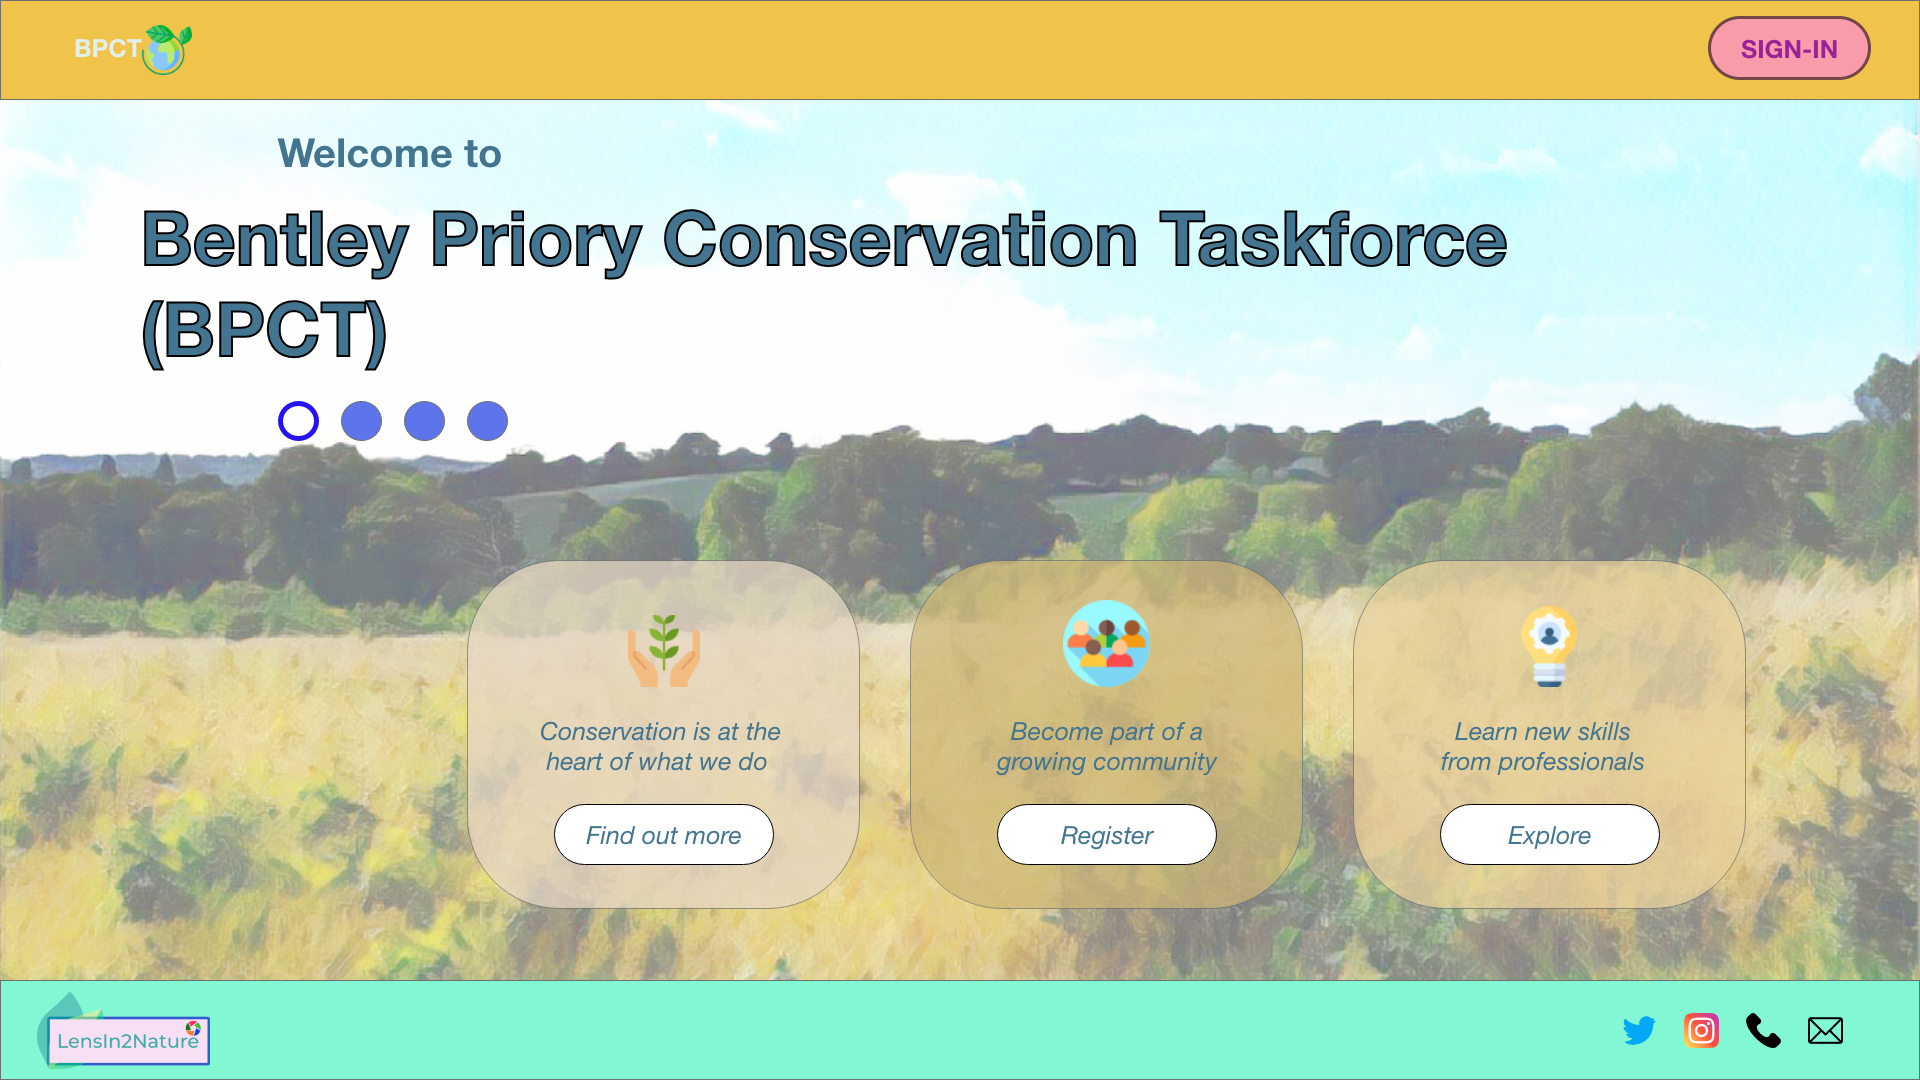
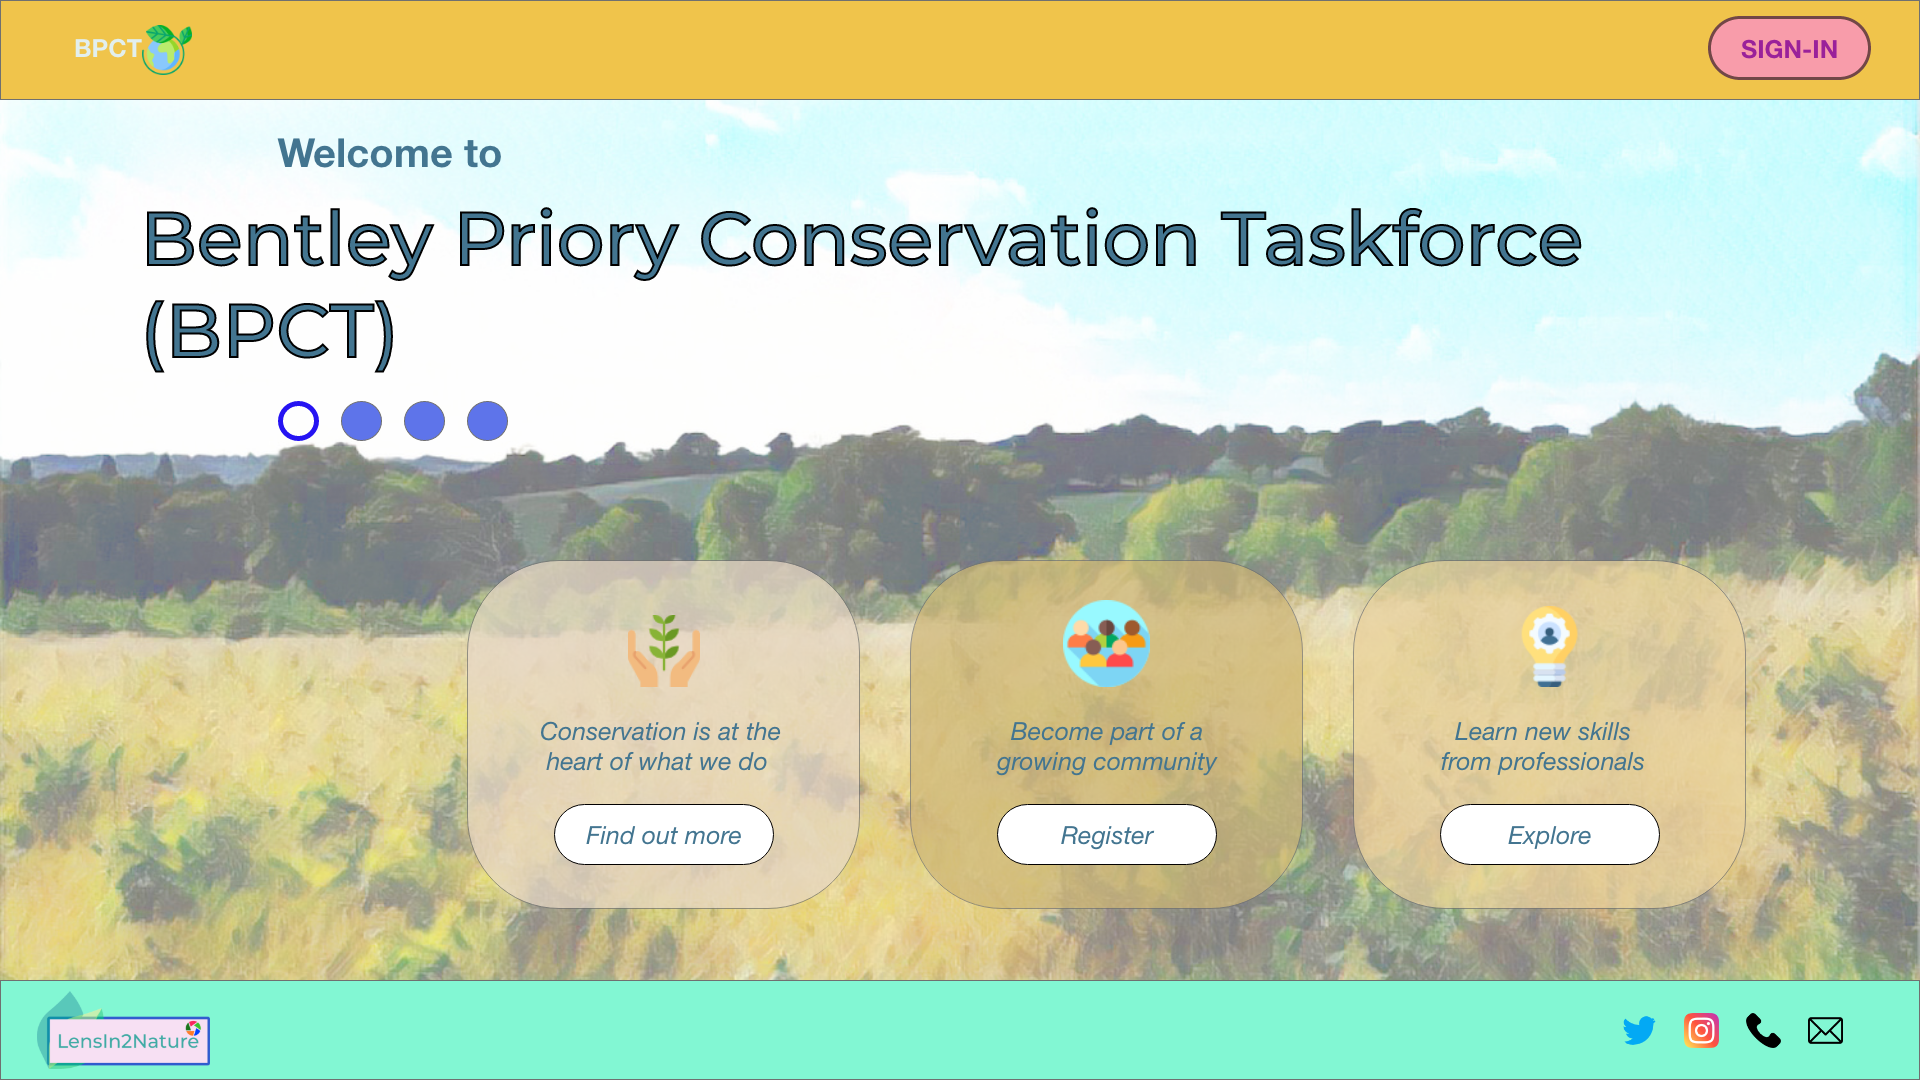
changes to font used in mock ups

Changed region(s): [[0.0625, 0.1833, 0.8438, 0.3361]]

diff --git a/mockups-page.html b/mockups-page.html
@@ -35,7 +35,7 @@
         <img src="images/image 7a.png" alt="mockup of homepage" />
         <figcaption>
           <a href="images/image 7a.png" target="_blank"
-            >Fig 6a. Mockup of Homepage (desktop)</a
+            >Fig 7a. Mockup of Homepage (desktop)</a
           >
         </figcaption>
       </figure>
@@ -46,7 +46,7 @@
         />
         <figcaption>
           <a href="images/image 7b.png" target="_blank"
-            >Fig 6b. Mockup of second part of homepage (desktop)</a
+            >Fig 7b. Mockup of second part of homepage (desktop)</a
           >
         </figcaption>
       </figure>
@@ -56,7 +56,7 @@
         <img src="images/image 7c.png" alt="mockup of third part of homepage" />
         <figcaption>
           <a href="images/image 7c.png" target="_blank"
-            >Fig 6c. Mockup of third part of homepage (desktop)</a
+            >Fig 7c. Mockup of third part of homepage (desktop)</a
           >
         </figcaption>
       </figure>
@@ -67,30 +67,45 @@
         />
         <figcaption>
           <a href="images/image 7d.png" target="_blank"
-            >Fig 6d. Mockup of fourth part of homepage (desktop)</a
+            >Fig 7d. Mockup of fourth part of homepage (desktop)</a
           >
         </figcaption>
       </figure>
+    </section>
+    <section class="comments">
+      <p></p>
+      <p></p>
+      <p></p>
     </section>
     <section class="features">
       <figure>
         <img src="images/image 7e.png" alt="mockup of web-link to homepage" />
         <figcaption>
           <a href="images/image 7e.png" target="_blank"
-            >Fig 6e. Mockup of web-link homepage (tablet)</a
+            >Fig 7e. Mockup of web-link homepage (tablet)</a
           >
         </figcaption>
       </figure>
+    </section>
+    <section class="comments">
+      <p></p>
+      <p></p>
+      <p></p>
     </section>
     <section class="features">
       <figure>
         <img src="images/image 7f.png" alt="mockup of sign-in page" />
         <figcaption>
           <a href="images/image 7f.png" target="_blank"
-            >Fig 6f. Mockup of sign-in page (mobile)</a
+            >Fig 7f. Mockup of sign-in page (mobile)</a
           >
         </figcaption>
       </figure>
+    </section>
+    <section class="comments">
+      <p></p>
+      <p></p>
+      <p></p>
     </section>
     <footer class="footer">
       <div class="inner-footer">

diff --git a/images-page.html b/images-page.html
@@ -143,8 +143,8 @@
         the size of these images to 1500 by 729 pixels.
       </p>
       <p>
-        At this stage, the file sizes were still too big, so I used affinity
-        photo to reduce the quality such that each image came to 500kb of data
+        At this stage, the file sizes were still too big, so I used Affinity
+        Photo to reduce the quality such that each image came to 500kb of data
         which was more acceptable than the original 1.5Mb (for each file).
       </p>
     </section>
@@ -197,8 +197,8 @@
     <section class="comments">
       <p>
         Fig 6 is my logo which I designed using Affinity Designer. The font is
-        Montserrat, which is a font style I regularly use in web development as
-        I like the distinctiveness off the lettering and the curves which have a
+        Montserrat, which is a font style I regularly use as I like the
+        distinctiveness off the lettering and the curves which have a
         nature-based aesthetic.
       </p>
       <p>
@@ -208,10 +208,10 @@
         integrity.
       </p>
       <p>
-        I had downloaded the plant leaf image and the camera aperture image
-        (both .svg files) from flaticon. I used .svg files as they are
-        vector-based, making the images more crisp and visually appealing for
-        graphics such as logos.
+        I had downloaded the plant leaf and camera aperture images (both .svg
+        files) from flaticon. I used .svg files as they are vector-based, making
+        the images more crisp and visually appealing.I changed the colours and
+        appearance of layers using Affinity Designer.
       </p>
     </section>
     <footer class="footer">

diff --git a/gifs-page.html b/gifs-page.html
@@ -40,6 +40,11 @@
         </figcaption>
       </figure>
     </section>
+    <section class="comments">
+      <p></p>
+      <p></p>
+      <p></p>
+    </section>
     <section class="features">
       <figure>
         <img src="images/image 8b.gif" alt="logo related gif" />
@@ -50,6 +55,11 @@
         </figcaption>
       </figure>
     </section>
+    <section class="comments">
+      <p></p>
+      <p></p>
+      <p></p>
+    </section>
     <section class="features">
       <figure>
         <img src="images/image 8c.gif" alt="logo related gif" />
@@ -59,6 +69,11 @@
           >
         </figcaption>
       </figure>
+    </section>
+    <section class="comments">
+      <p></p>
+      <p></p>
+      <p></p>
     </section>
     <footer class="footer">
       <div class="inner-footer">

diff --git a/gifs-page.css b/gifs-page.css
@@ -54,6 +54,22 @@
   text-shadow: 0 0 0.1rem gray;
 }
 
+.comments {
+  height: 45vh;
+  background-color: #e8f6ef;
+}
+
+.comments p {
+  padding-top: 2rem;
+  margin-left: 5%;
+  margin-right: 5%;
+  font-size: 1.5rem;
+  color: #5c527f;
+  text-align: left;
+  letter-spacing: 0.05rem;
+  text-shadow: 0 0 0.1rem gray;
+}
+
 @media (max-width: 1050px) {
   .section-2 {
     height: 20vh;
@@ -61,6 +77,14 @@
   }
 
   .section-2 h2 {
+    font-size: 1rem;
+  }
+
+  .comments {
+    height: 40vh;
+  }
+
+  .comments p {
     font-size: 1rem;
   }
 }

diff --git a/mockups-page.css b/mockups-page.css
@@ -54,6 +54,22 @@
   text-shadow: 0 0 0.1rem gray;
 }
 
+.comments {
+  height: 45vh;
+  background-color: #e8f6ef;
+}
+
+.comments p {
+  padding-top: 2rem;
+  margin-left: 5%;
+  margin-right: 5%;
+  font-size: 1.5rem;
+  color: #5c527f;
+  text-align: left;
+  letter-spacing: 0.05rem;
+  text-shadow: 0 0 0.1rem gray;
+}
+
 @media (max-width: 1050px) {
   .section-2 {
     height: 20vh;
@@ -61,6 +77,14 @@
   }
 
   .section-2 h2 {
+    font-size: 1rem;
+  }
+
+  .comments {
+    height: 40vh;
+  }
+
+  .comments p {
     font-size: 1rem;
   }
 }
